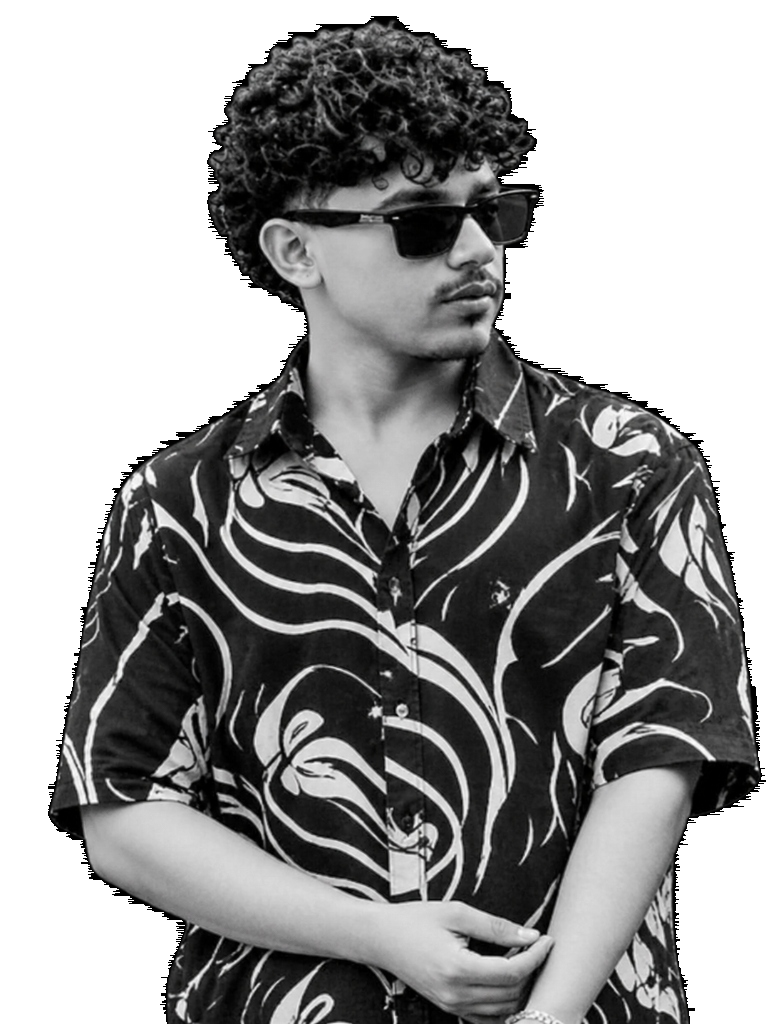
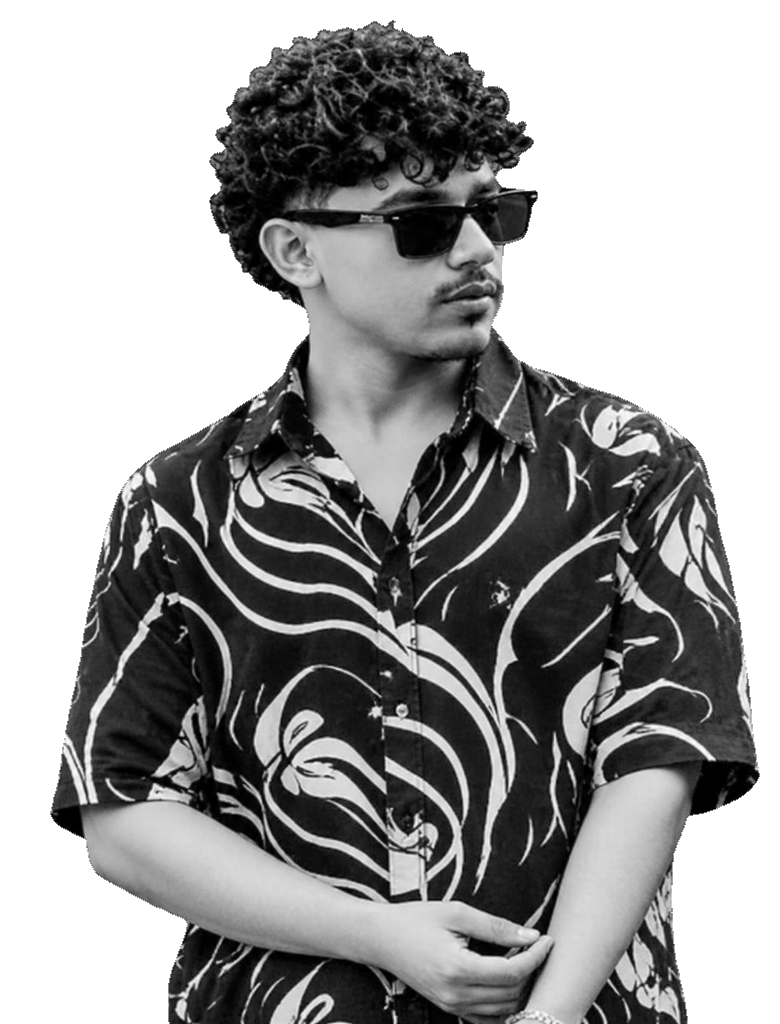
feat(hero): deploy studio clean matte for hero portrait with flawless anti-aliasing and zero dark fringing

diff --git a/index.html b/index.html
@@ -129,7 +129,7 @@
 
       <!-- Right Column: Mohammed Nashid K Cutout Portrait with Blue Glow & Orbit -->
       <div class="hero-portrait-col">
-        <img src="assets/nashid-hero-theme.png?v=crystal-clear-100" alt="Mohammed Nashid K — AI Content Creator" class="hero-portrait-theme-img">
+        <img src="assets/nashid-hero-theme.png?v=clean-studio-matte" alt="Mohammed Nashid K — AI Content Creator" class="hero-portrait-theme-img">
       </div>
 
     </div>
